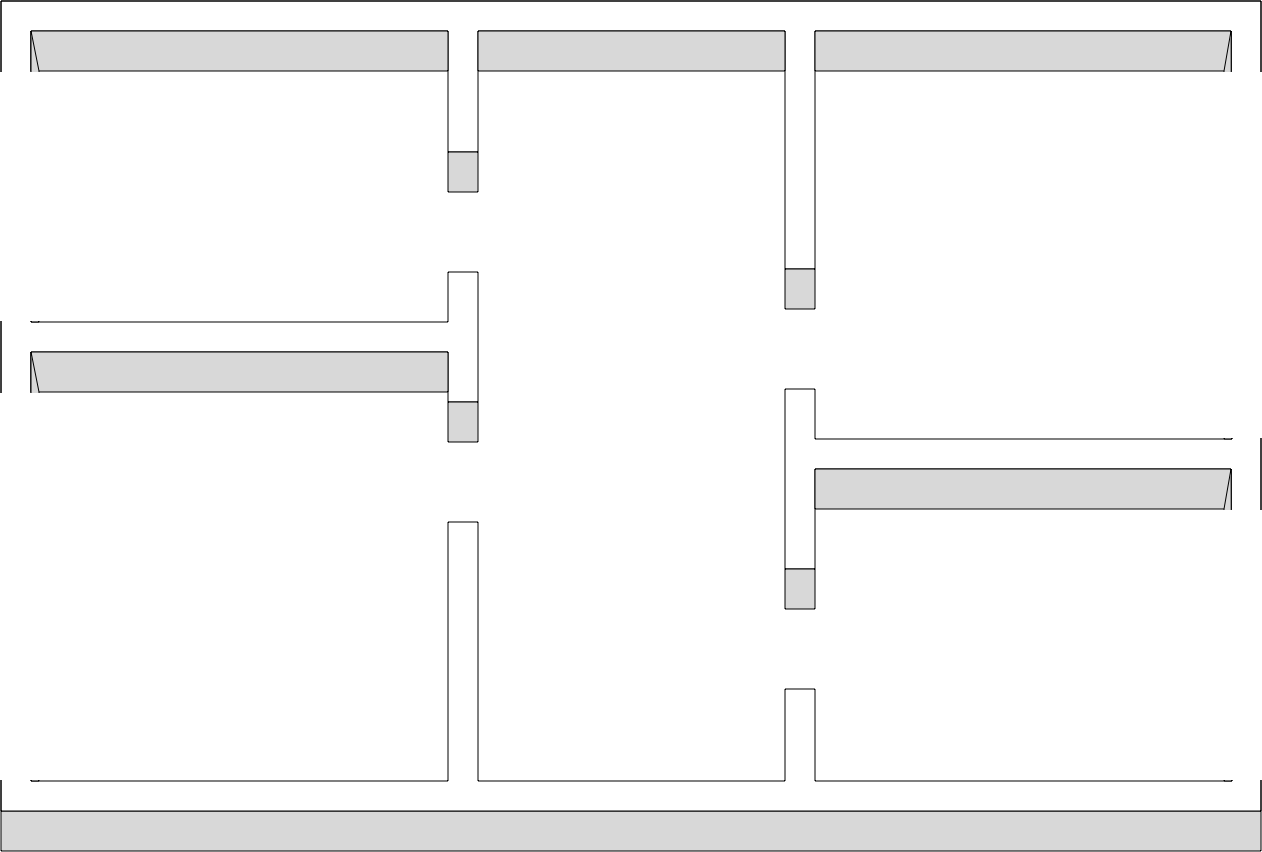
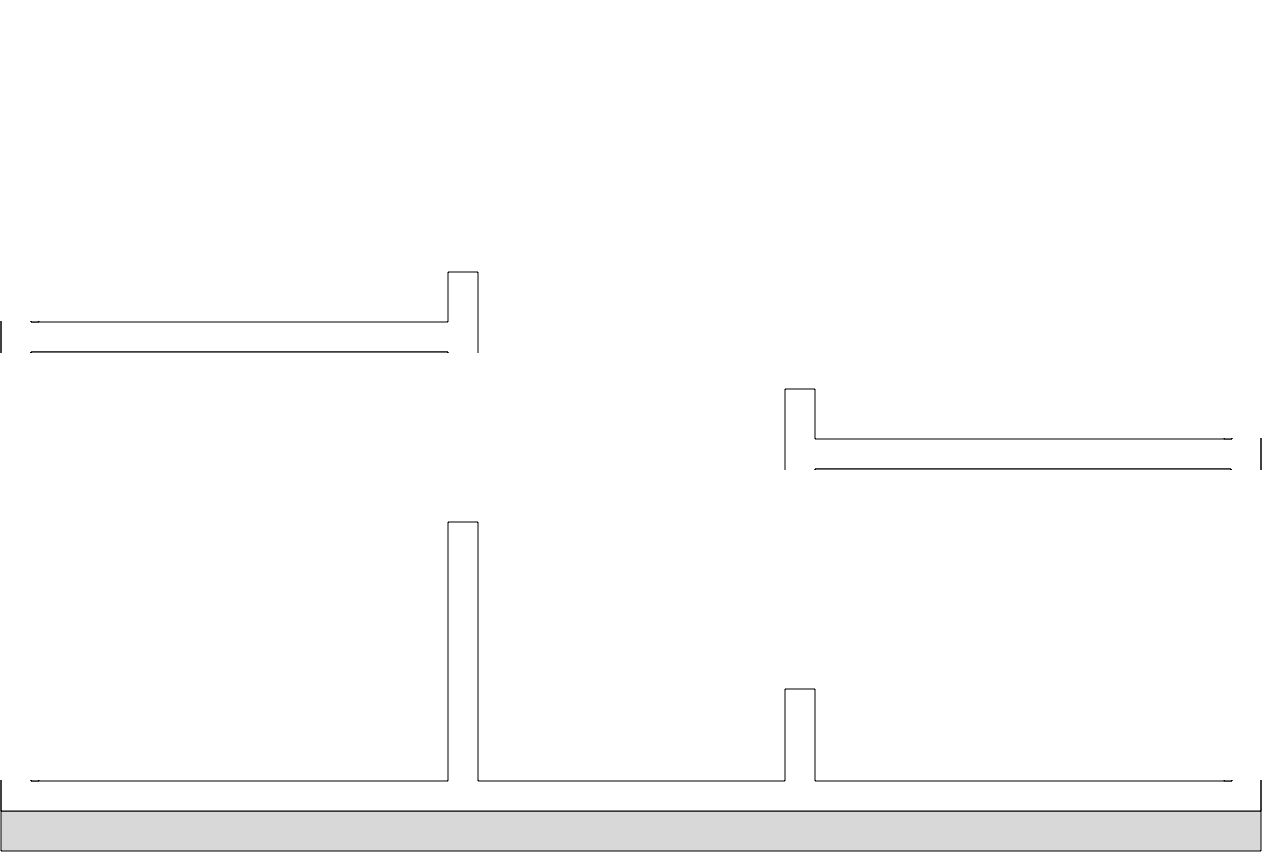
Integrate Orl's first assets.

diff --git a/health/libraries/player.js b/health/libraries/player.js
@@ -5,7 +5,33 @@ class Player {
 
   constructor( x, y, wid, hei ) {
 
+    let oneAnim;
+    this.layers = []; // an array of all layers added to body sprite
 
+    this.body = createSprite( x, y, wid, hei ); this.body.depth = 3; // body is special but not on top
+    this.body.addAnimation( 'normal', 'assets/player_body_0001.png', 'assets/player_body_0002.png' );
+    this.body.setCollider( 'rectangle', 0, -28, 40, 100 );
+
+    this.rightfoot = createSprite( x, y, wid, hei ); this.rightfoot.depth = 2; // right foot is under body sprite
+    oneAnim = this.rightfoot.addAnimation( 'stand', 'assets/player_rightfoot_stand_0001.png', 'assets/player_rightfoot_stand_0002.png' );
+    oneAnim.frameDelay = 8;
+    oneAnim = this.rightfoot.addAnimation( 'walk', 'assets/player_rightfoot_walk_0001.png', 'assets/player_rightfoot_walk_0004.png' );
+    oneAnim.frameDelay = 8;
+    this.layers.push( this.rightfoot ); // add sprite to layers
+
+    this.leftfoot = createSprite( x, y, wid, hei ); this.leftfoot.depth = 4; // left foot is over body sprite
+    oneAnim = this.leftfoot.addAnimation( 'stand', 'assets/player_leftfoot_stand_0001.png', 'assets/player_leftfoot_stand_0002.png' );
+    oneAnim.frameDelay = 8;
+    oneAnim = this.leftfoot.addAnimation( 'walk', 'assets/player_leftfoot_walk_0001.png', 'assets/player_leftfoot_walk_0004.png' );
+    oneAnim.frameDelay = 8;
+    this.layers.push( this.leftfoot ); // add sprite to layers
+
+    this.head = createSprite( x, y, wid, hei ); this.head.depth = 5; // head is over body sprite
+    this.head.addAnimation( 'stand', 'assets/player_head_stand_0001.png', 'assets/player_head_stand_0002.png' );
+    this.head.addAnimation( 'walk', 'assets/player_head_walk_0001.png', 'assets/player_head_walk_0002.png' );
+    this.layers.push( this.head ); // add sprite to layers
+
+    /*
     this.body = createSprite( x, y, wid, hei ); this.body.depth = 2; // body sprite
     this.body.addAnimation( 'stand_good', 'assets/player_body_stand_good_0001.png', 'assets/player_body_stand_good_0002.png' );
     this.body.addAnimation( 'walk_good', 'assets/player_body_walk_good_0001.png', 'assets/player_body_walk_good_0004.png' );
@@ -57,6 +83,7 @@ class Player {
     this.gloves.addAnimation( 'stand_cont', 'assets/player_gloves_stand_cont_0001.png', 'assets/player_gloves_stand_cont_0002.png' );
     this.gloves.addAnimation( 'walk_cont', 'assets/player_gloves_walk_cont_0001.png', 'assets/player_gloves_walk_cont_0004.png' );
     this.layers.push( this.gloves ); // add gloves to layers
+    */
 
     this.isWalking = false; // is the player walking or not?
 
@@ -81,7 +108,7 @@ class Player {
 
   update( goto, obstacles, actionables ) {
 
-    this.body.collide( obstacles ); // collisions with obstacles
+    this.body.collide( obstacles ); // body collides with obstacles
 
     // -- deal with player position/motion relative to goto point --
 
@@ -126,6 +153,20 @@ class Player {
 
     // -- deal with animation in sprites --
 
+    if( this.isWalking ) { // walk animation
+
+      this.rightfoot.changeAnimation( 'walk' );
+      this.leftfoot.changeAnimation( 'walk' );
+      this.head.changeAnimation( 'walk' );
+
+    } else { // stand animation
+
+      this.rightfoot.changeAnimation( 'stand' );
+      this.leftfoot.changeAnimation( 'stand' );
+      this.head.changeAnimation( 'stand' );
+    }
+
+    /*
     if( this.isGownContamined ) this.gown.changeAnimation( 'cont' );
     else this.gown.changeAnimation( 'good' ); // check contamination
 
@@ -187,6 +228,7 @@ class Player {
 
     if( this.hasPhone ) this.phone.visible = true;
     else this.phone.visible = false; // see gown?
+    */
 
     // -- deal with state changes --
 

diff --git a/health/sketch.js b/health/sketch.js
@@ -61,7 +61,7 @@ function preload() {
     walls_extruded_back = loadImage( 'assets/walls_extruded_back.png' ); // load walls extrusion image
     walls_extruded_front = loadImage( 'assets/walls_extruded_front.png' ); // load walls extrusion image
 
-    let abs_top = createSprite( 630, 55 );
+    let abs_top = createSprite( 630, 15 );
     abs_top.addAnimation( 'normal', 'assets/abs_top_0001.png', 'assets/abs_top_0002.png' );
     obstacles.add( abs_top ); // add wall as an obstacle
 
@@ -77,19 +77,19 @@ function preload() {
     abs_right.addAnimation( 'normal', 'assets/abs_right_0001.png', 'assets/abs_right_0002.png' );
     obstacles.add( abs_right ); // add wall as an obstacle
 
-    let mid_left = createSprite( 238.5, 376 );
+    let mid_left = createSprite( 238.5, 348.5 );
     mid_left.addAnimation( 'normal', 'assets/mid_left_0001.png', 'assets/mid_left_0002.png' );
     obstacles.add( mid_left ); // add wall as an obstacle
 
-    let mid_right = createSprite( 1022.5, 493 );
+    let mid_right = createSprite( 1022.5, 465.5 );
     mid_right.addAnimation( 'normal', 'assets/mid_right_0001.png', 'assets/mid_right_0002.png' );
     obstacles.add( mid_right ); // add wall as an obstacle
 
-    let hall_left_top = createSprite( 462, 130.5 );
+    let hall_left_top = createSprite( 462, 90.5 );
     hall_left_top.addAnimation( 'normal', 'assets/hall_left_top_0001.png', 'assets/hall_left_top_0002.png' );
     obstacles.add( hall_left_top ); // add wall as an obstacle
 
-    let hall_left_mid = createSprite( 462, 376 );
+    let hall_left_mid = createSprite( 462, 356 );
     hall_left_mid.addAnimation( 'normal', 'assets/hall_left_mid_0001.png', 'assets/hall_left_mid_0002.png' );
     obstacles.add( hall_left_mid ); // add wall as an obstacle
 
@@ -97,11 +97,11 @@ function preload() {
     hall_left_bottom.addAnimation( 'normal', 'assets/hall_left_bottom_0001.png', 'assets/hall_left_bottom_0002.png' );
     obstacles.add( hall_left_bottom ); // add wall as an obstacle
 
-    let hall_right_top  = createSprite( 799, 189 );
+    let hall_right_top  = createSprite( 799, 149 );
     hall_right_top.addAnimation( 'normal', 'assets/hall_right_top_0001.png', 'assets/hall_right_top_0002.png' );
     obstacles.add( hall_right_top ); // add wall as an obstacle
 
-    let hall_right_mid  = createSprite( 799, 518 );
+    let hall_right_mid  = createSprite( 799, 498 );
     hall_right_mid.addAnimation( 'normal', 'assets/hall_right_mid_0001.png', 'assets/hall_right_mid_0002.png' );
     obstacles.add( hall_right_mid ); // add wall as an obstacle
 
@@ -119,7 +119,7 @@ function preload() {
     surfaces.push( virus );
     */
 
-    player = new Player( 1000, 75, 50, 100 ); // load player object
+    player = new Player( gameWidth/2, 100, 115, 140 ); // load player object
   }
 }
 
@@ -128,7 +128,7 @@ function setup() {
   if( !hasTouchScreen ) {
 
     createCanvas( gameWidth, gameHeight );
-    goto = createVector( 1000, 75 );
+    goto = createVector( gameWidth/2, 140 );
 
   } else {
 
@@ -151,8 +151,10 @@ function draw() {
     if( mouseIsPressed ) { goto.x = mouseX; goto.y = mouseY; }
 
     player.update( goto, obstacles, surfaces );
-    obstacles.forEach( ( obstacle ) => { obstacles.debug = mouseIsPressed; } )
     // surfaces.forEach( ( surface ) => { surface.update(); } )
+
+    // obstacles.forEach( ( obstacle ) => { obstacle.debug = mouseIsPressed; } )
+    // player.body.debug = mouseIsPressed;
 
     drawSprites(); // draw all sprites
 
